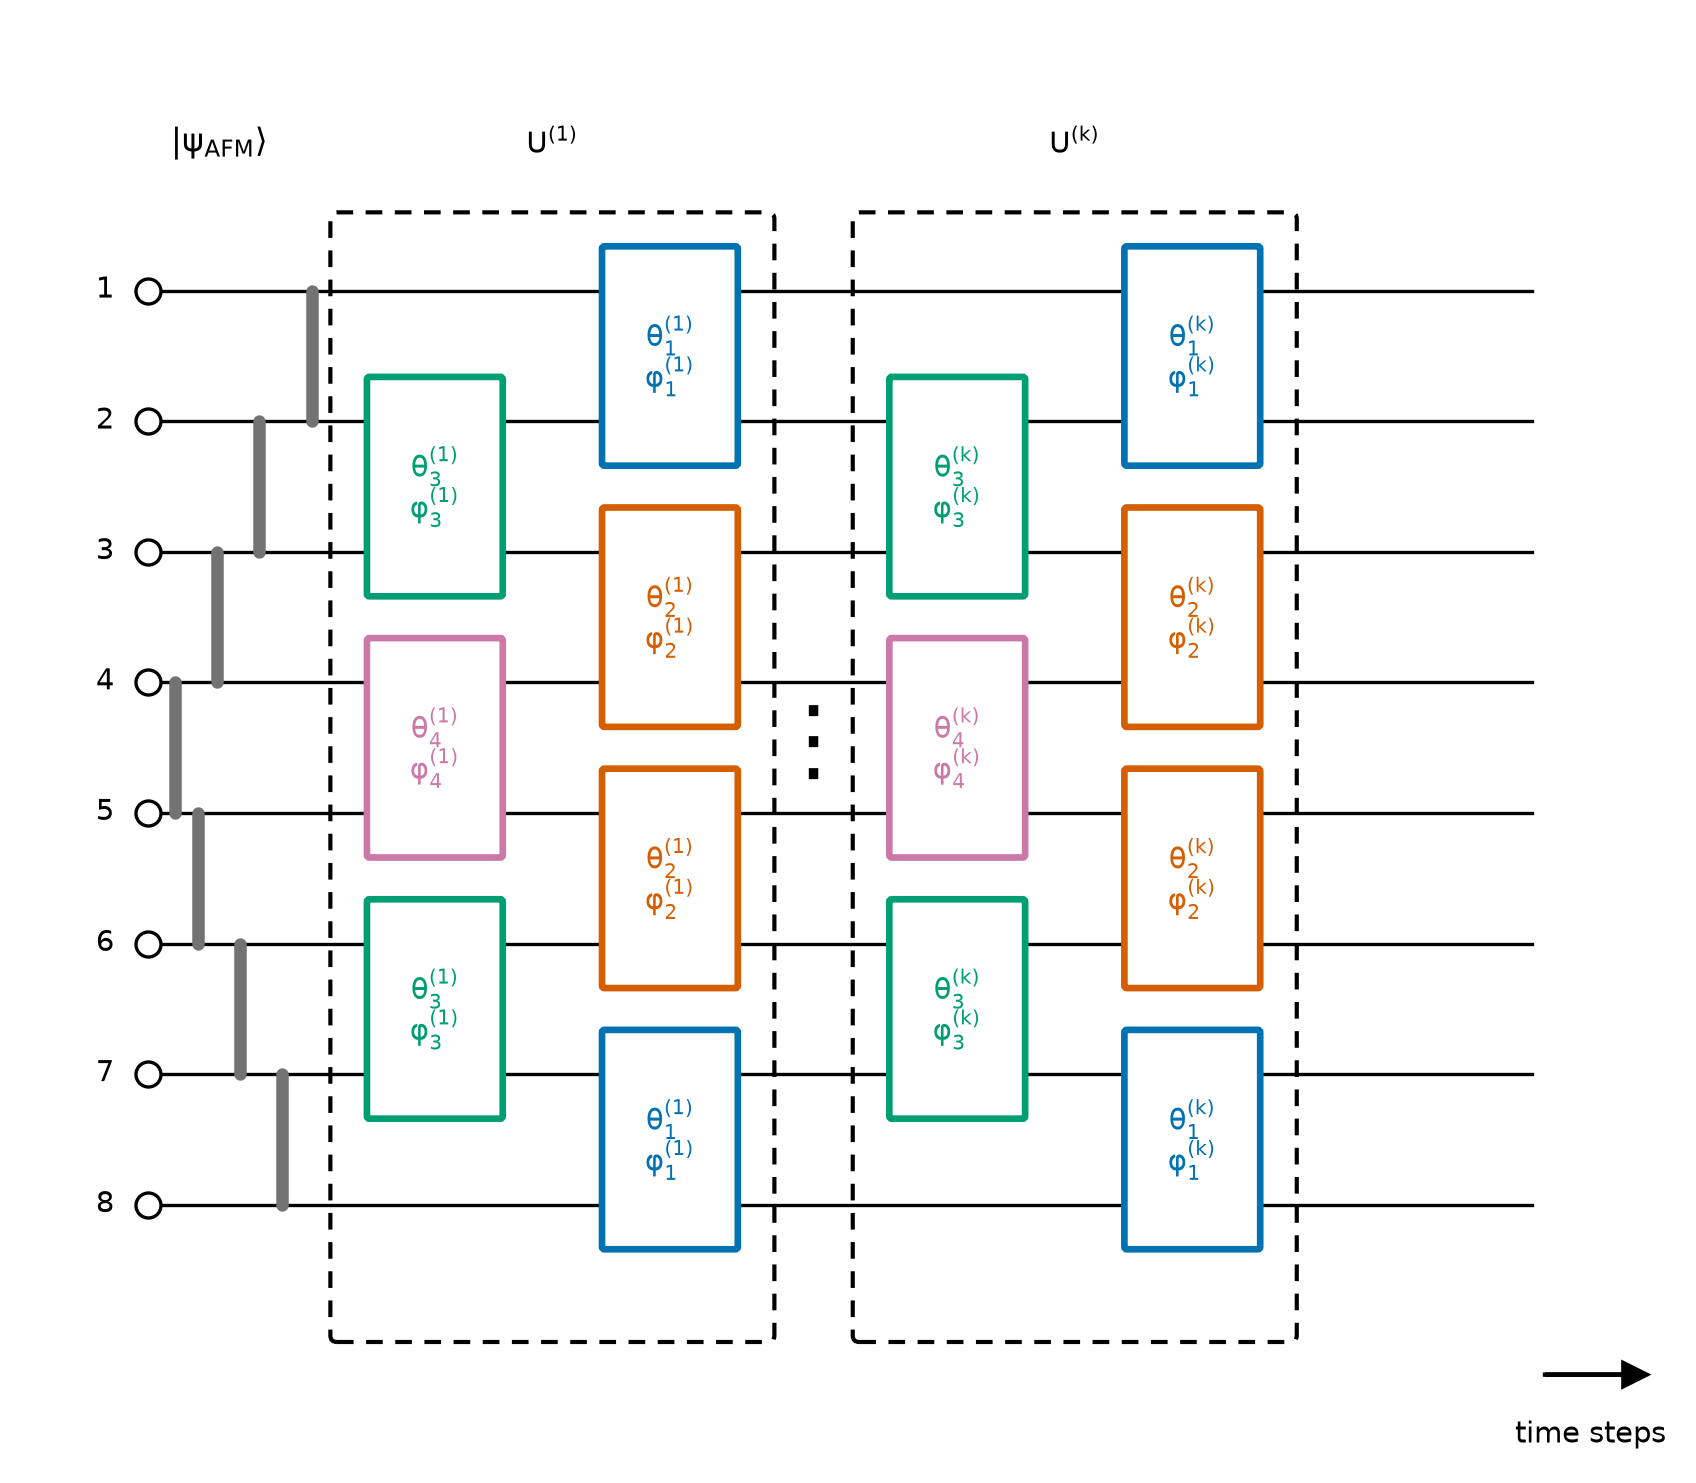
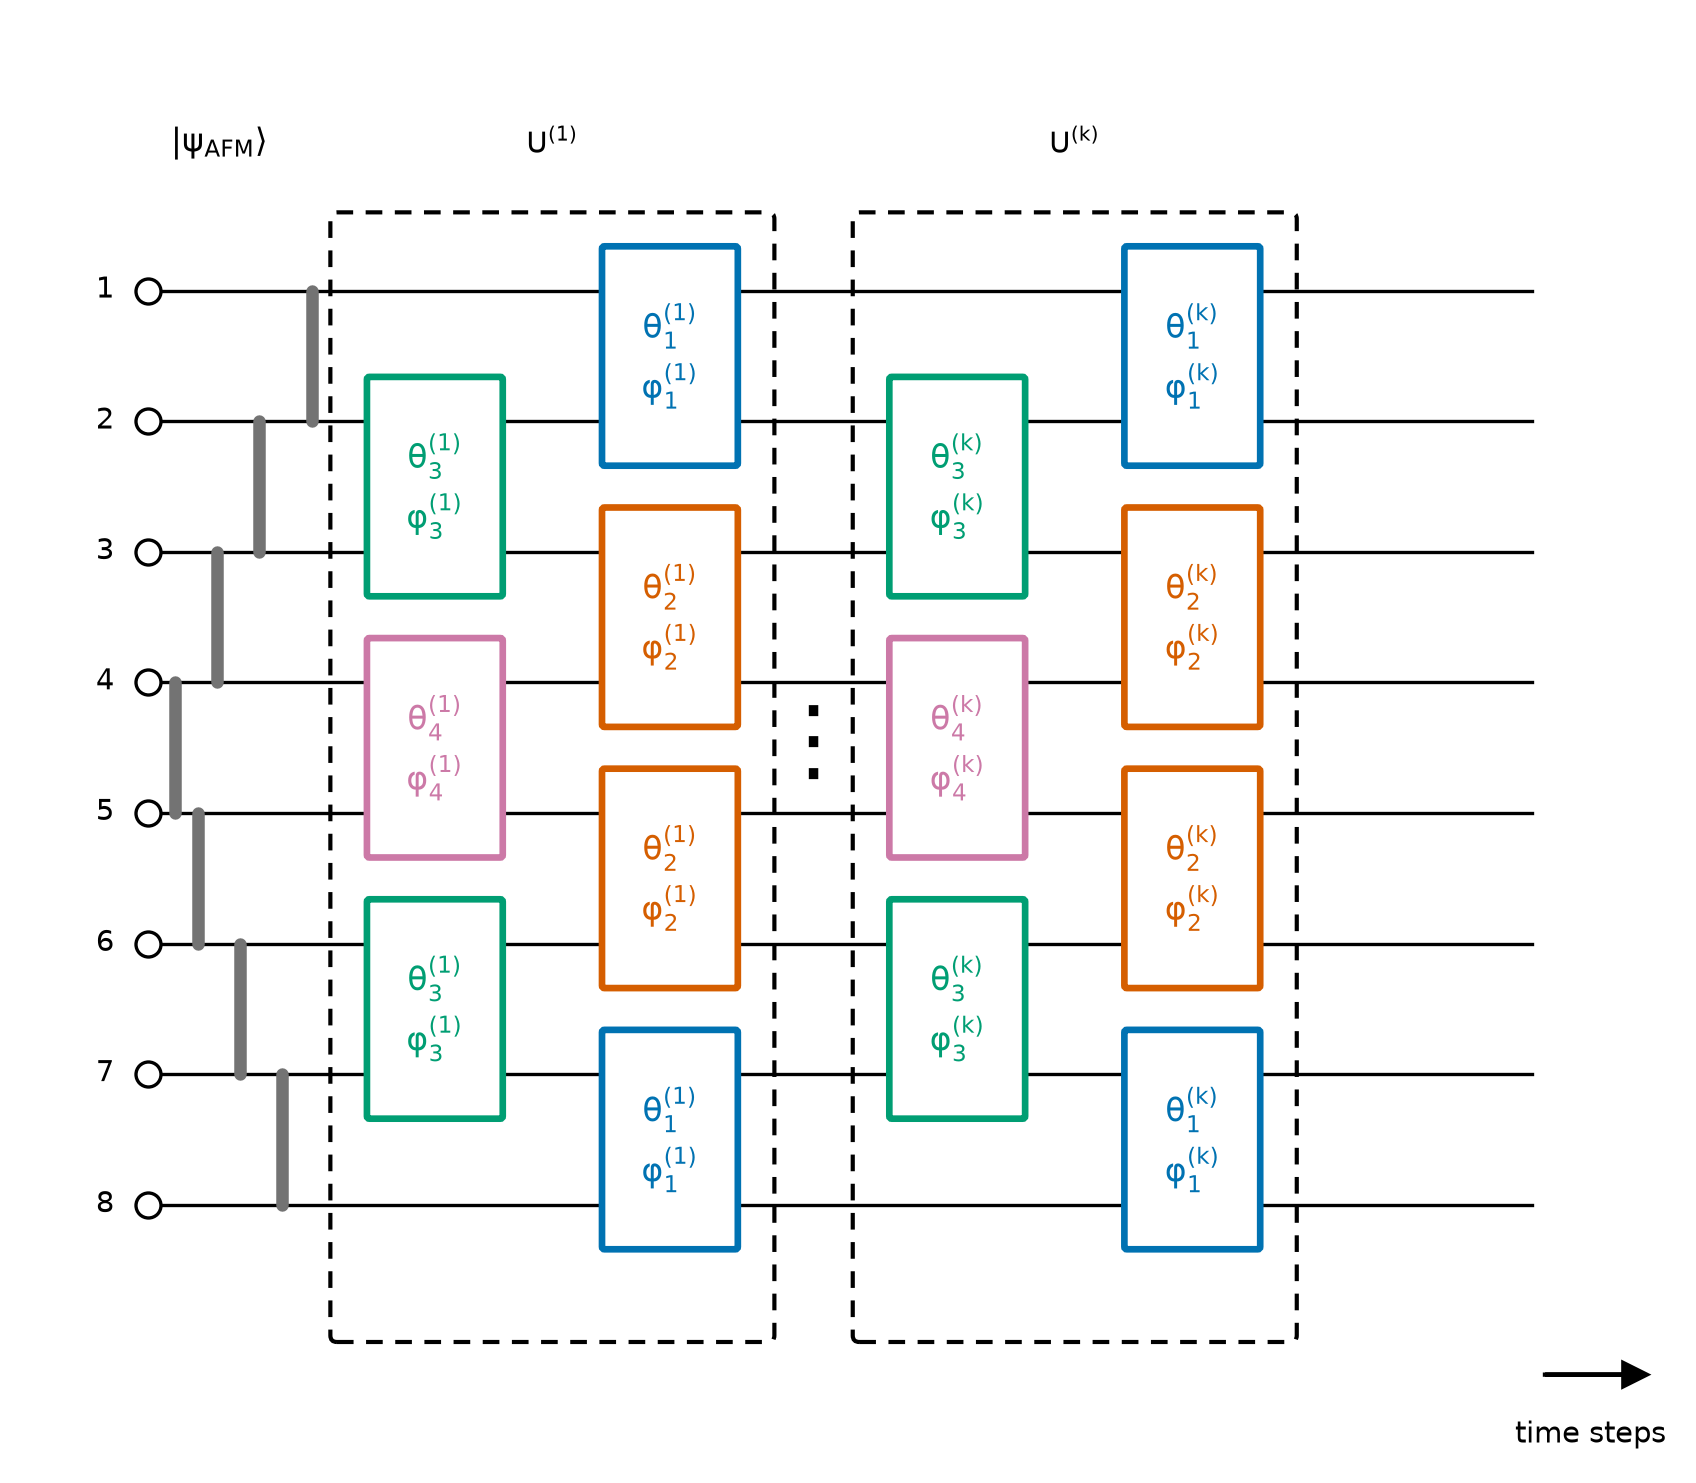
门框字8pt+行距1.8

diff --git a/scripts/plot_D06.py b/scripts/plot_D06.py
@@ -72,7 +72,7 @@ def gate_box(ax, a, b, x, color, group, layer):
     ax.add_patch(box)
     ax.text(x, (ya + yb) / 2, f"$\\theta^{{({layer})}}_{{{group}}}$" + "\n"
             f"$\\varphi^{{({layer})}}_{{{group}}}$", ha="center",
-            va="center", fontsize=7, color=color, linespacing=1.4)
+            va="center", fontsize=8, color=color, linespacing=1.8)
 
 
 def layer_frame(ax, x0, x1):
